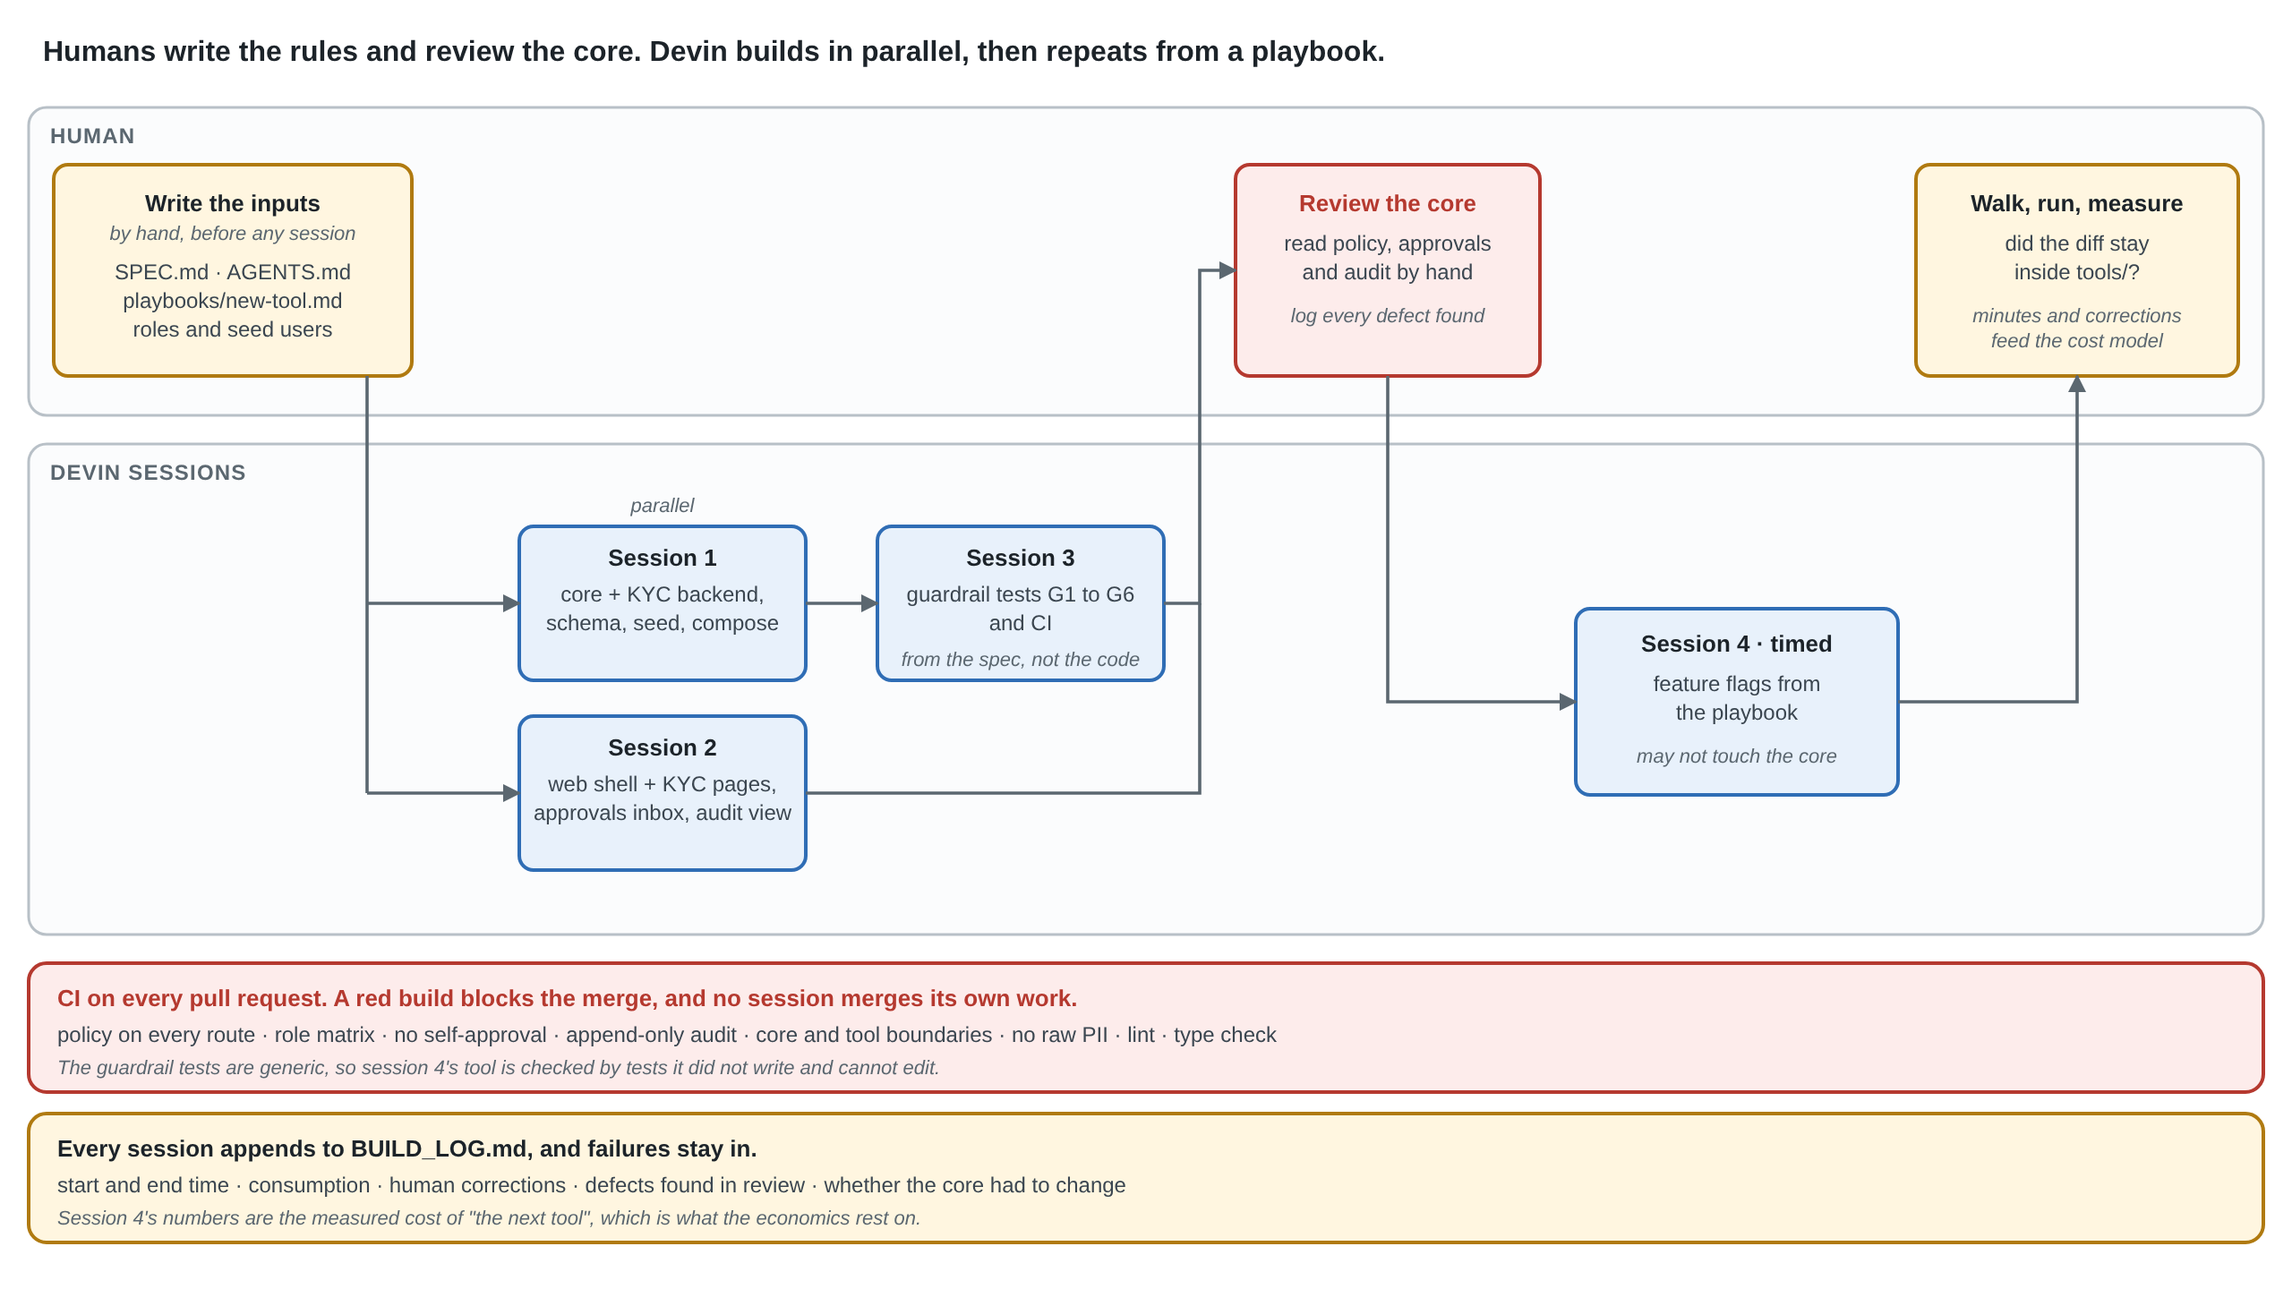
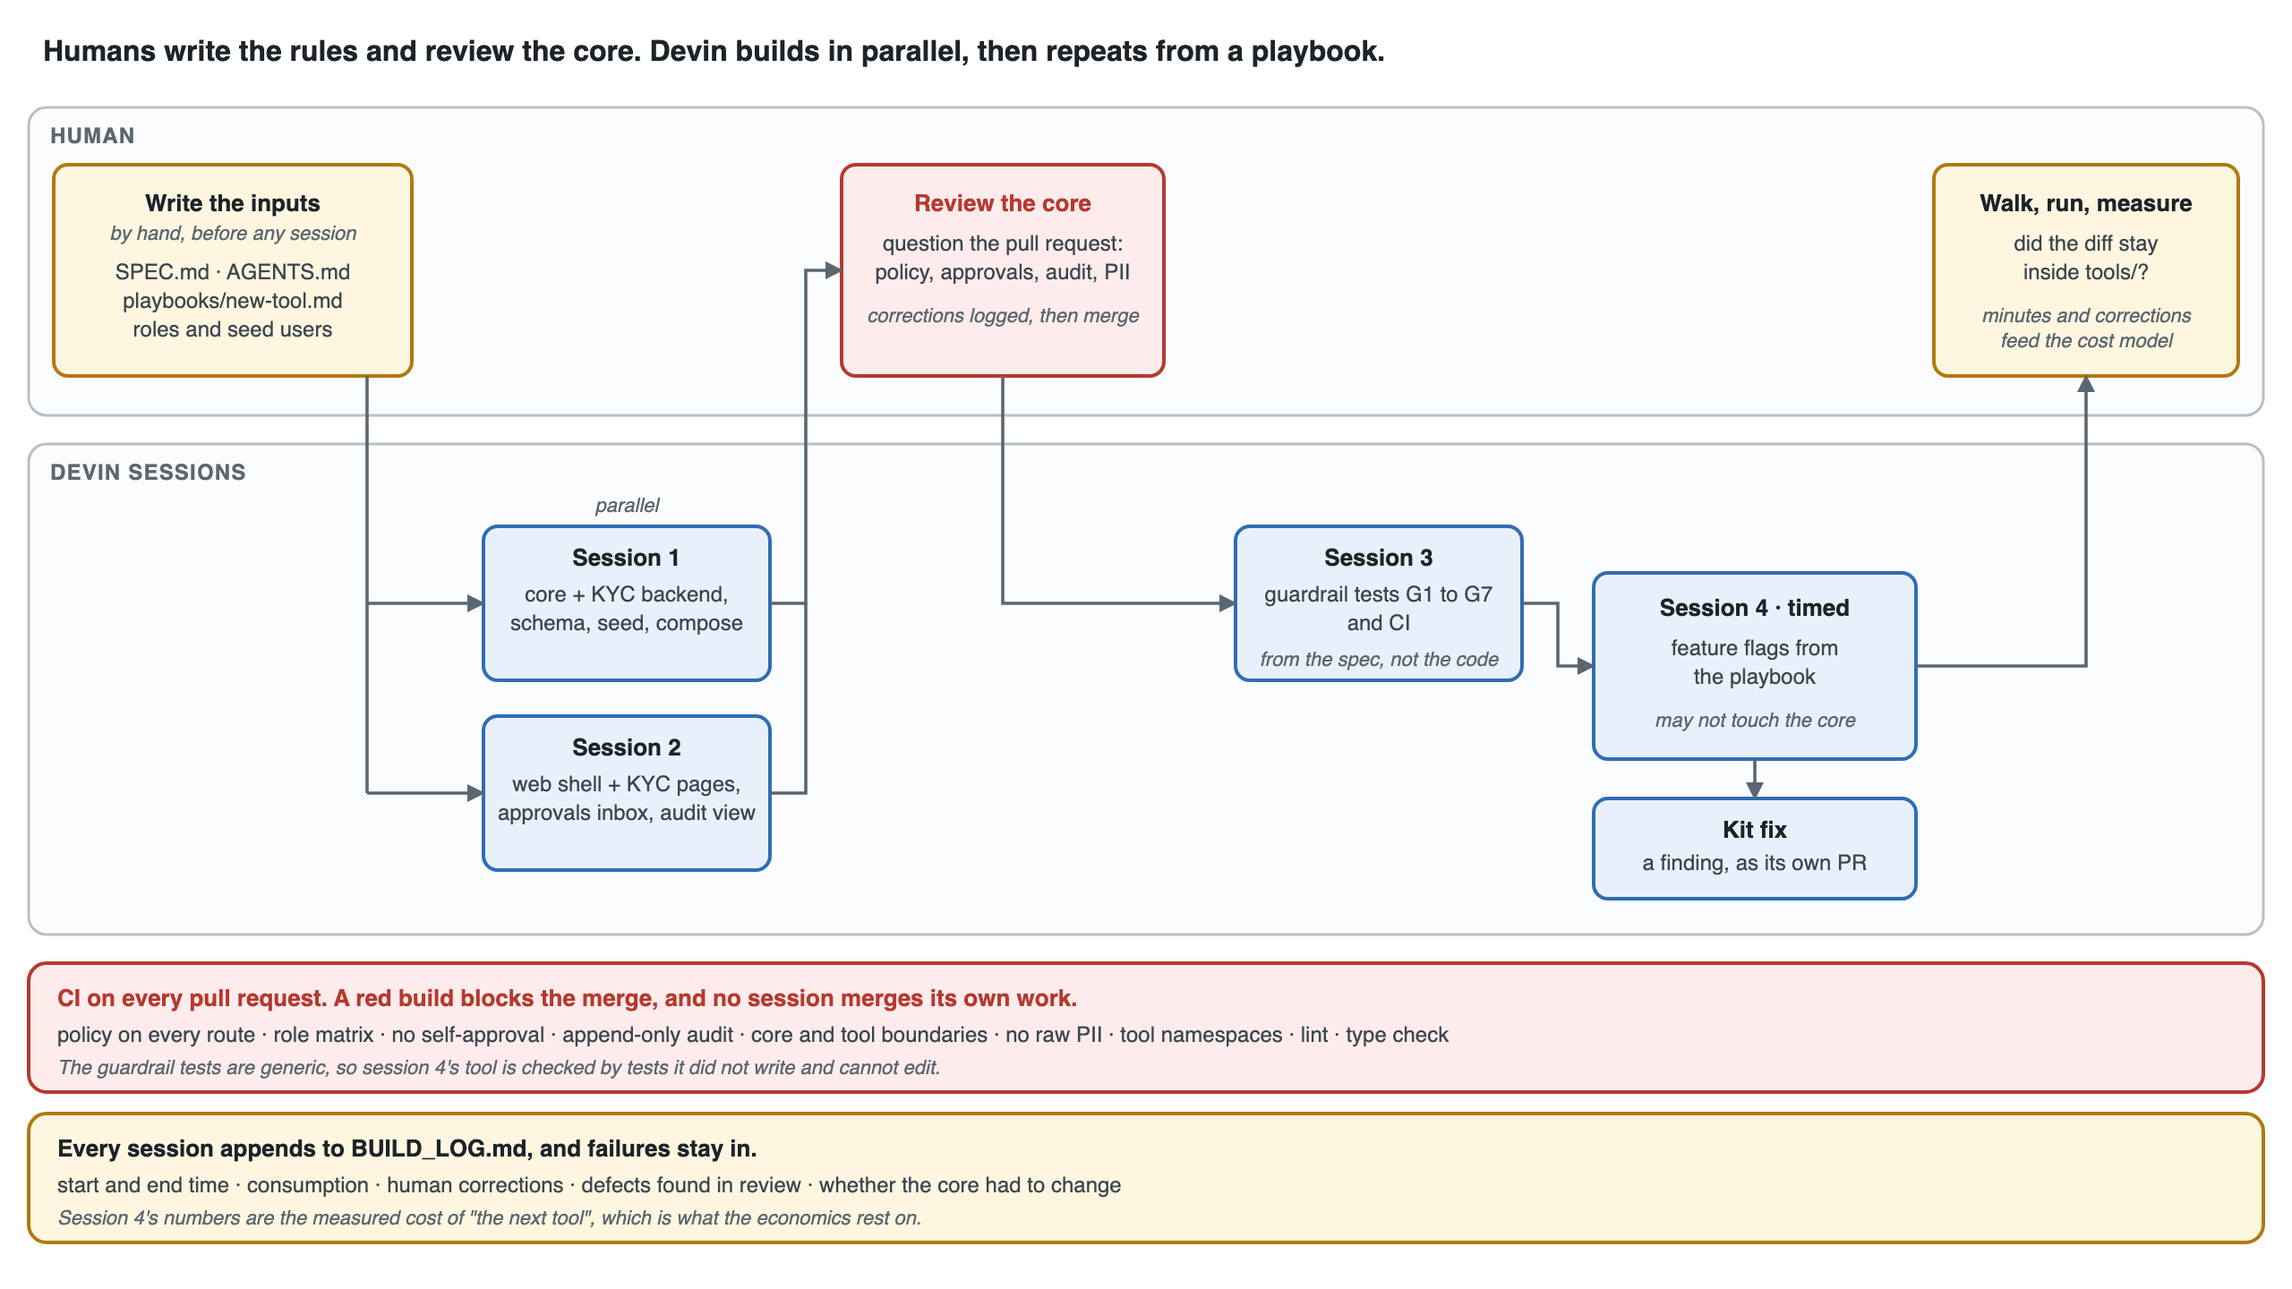
docs: bring README, diagrams and build log in line with what was built
README: say what the prototype is for, cover both tools, add the session
results, guardrails G1 to G7 and known gaps. Diagrams: seven guardrails,
namespaces, structural masking, and the review and kit-fix steps in the order
they happened. Build log: usage per session as shown in the Devin app.

diff --git a/README.md b/README.md
@@ -1,44 +1,62 @@
 # Internal Tools Kit
 
-A prototype kit for building governed internal tools. Access control, approvals, audit and PII
-masking live once in `backend/core/`; each tool under `backend/tools/<name>/` inherits them.
-The first tool is **KYC review**: an analyst proposes a decision on a flagged case, a different
-senior reviewer approves it, and an auditor sees the trail. See [SPEC.md](SPEC.md) for the full
-spec and [AGENTS.md](AGENTS.md) for contributor rules.
+A prototype for one question: can an engineering team use Devin to build its governed internal
+tools, instead of paying for a low-code platform such as Microsoft Power Apps?
+
+It does not rebuild Power Apps. There is no drag-and-drop editor, no connector catalogue and no
+hosting. It rebuilds the part a fintech cannot skip: access control, second-person approval, an
+audit trail and PII masking, written once in a shared core. Two tools sit on that core:
+
+- **KYC review.** An analyst proposes a decision on a flagged case, a different senior reviewer
+  approves it, and an auditor sees the trail with PII masked.
+- **Feature flags.** Engineers toggle flags in dev and staging. A prod toggle needs approval from
+  an engineering lead who is not the person asking. Every toggle is audited.
+
+The claim under test: with the controls in a core, Devin can add the next tool from a
+one-paragraph request without touching the core, and CI proves the controls still hold.
 
 Not production. Synthetic data only. Login is a stub (pick a user, no password).
+
+![System diagram](docs/diagrams/system.png)
 
 ## Run it
 
 Requires Docker with Compose.
 
 ```sh
-docker compose up -d     # postgres :5432, backend :8000, web placeholder :5173
-make seed                # drop + recreate the schema, load synthetic users and cases
+docker compose up -d     # postgres :5432, backend :8000, web :5173
+make seed                # drop + recreate the schema, load synthetic users, cases and flags
 ```
 
+- Web app: http://localhost:5173 (the first start runs `npm install`, so give it a minute)
 - API docs: http://localhost:8000/docs
 - Health: http://localhost:8000/api/health
-- The `web` service is a placeholder until `web/package.json` exists, then it runs the Vite dev
-  server on http://localhost:5173. Vite proxies `/api` to `API_TARGET` (set to
-  `http://backend:8000` in compose).
 
 `make seed` is safe to rerun; it resets the database to the same fixed data every time.
 
-## Log in as a seeded user
+## Try it
 
-Login sets a signed HttpOnly cookie. `GET /api/users` lists who you can be.
+Pick a user on the login page. Switch users from the header at any time.
 
-| User id | Name | Roles | Can |
-|---|---|---|---|
-| `ana` | Ana | analyst | read cases with PII, propose decisions |
-| `sam` | Sam | senior_reviewer | read cases with PII, approve or reject proposals |
-| `dana` | Dana | analyst, senior_reviewer | propose and approve, but never her own proposal |
-| `audrey` | Audrey | auditor | read cases with PII masked, read the audit trail |
-| `eli` | Eli | engineer | nothing yet (feature flags tool comes later) |
-| `lee` | Lee | engineer, eng_lead | nothing yet (feature flags tool comes later) |
+| User | Roles | Can |
+|---|---|---|
+| Ana | analyst | read KYC cases with PII, propose decisions |
+| Sam | senior_reviewer | read KYC cases with PII, approve or reject proposals |
+| Dana | analyst, senior_reviewer | propose and approve, but never her own proposal |
+| Audrey | auditor | read KYC cases with PII masked, view flags, read the audit trail |
+| Eli | engineer | view flags, toggle dev and staging, propose a prod toggle |
+| Lee | engineer, eng_lead | everything Eli can, plus approve prod toggles that are not his own |
 
-The KYC flow from SPEC section 2 with curl:
+Two flows to walk through:
+
+1. **KYC.** As Dana, open a case under KYC review and propose a decision. Open Approvals and try
+   to decide it: the server refuses with `self_approval`. Switch to Sam and approve it. Switch to
+   Audrey: the case shows `***` for PII, and Audit shows the propose, approve and apply rows.
+2. **Feature flags.** As Eli, toggle a dev flag directly. Open a prod flag and propose a change
+   with a reason. Switch to Lee and approve it in Approvals. Then propose one as Lee and try to
+   approve it: refused, for the same reason and by the same core code as Dana.
+
+The same KYC flow with curl:
 
 ```sh
 API=http://localhost:8000/api
@@ -59,6 +77,61 @@ curl -s -b /tmp/sam.jar -X POST $API/approvals/1/approve
 curl -s -b /tmp/audrey.jar "$API/audit?entity=kyc_case:2"
 ```
 
+## How it was built
+
+The inputs were written before the first session: [SPEC.md](SPEC.md), [AGENTS.md](AGENTS.md),
+[playbooks/new-tool.md](playbooks/new-tool.md) and the prompts in
+[docs/DEVIN_SESSIONS.md](docs/DEVIN_SESSIONS.md). Devin wrote all the application code and tests
+in four sessions and six pull requests. A human reviewed and merged each one.
+
+![Devin workflow](docs/diagrams/devin-workflow.png)
+
+| Session | Pull requests | Time | Devin usage | Human corrections |
+|---|---|---|---|---|
+| 1 Core and KYC backend | [#1](https://github.com/LavonASC20/internal-tools-kit/pull/1) | ~59 min, including two review rounds | $0.16 | 9 |
+| 2 Web shell and KYC pages | [#2](https://github.com/LavonASC20/internal-tools-kit/pull/2), [#3](https://github.com/LavonASC20/internal-tools-kit/pull/3) | ~13 min to the first PR | $1.35 | 1 |
+| 3 Guardrail tests and CI | [#4](https://github.com/LavonASC20/internal-tools-kit/pull/4) | ~13 min | $3.93 | 0 |
+| 4 Feature flags, from the playbook | [#6](https://github.com/LavonASC20/internal-tools-kit/pull/6), kit fix [#5](https://github.com/LavonASC20/internal-tools-kit/pull/5) | ~5 min to a built tool, ~14 min to a reviewable PR | $4.30 | 1 |
+
+Sessions 1 and 2 ran in parallel. Usage is the on-demand figure shown in each session's panel in
+the Devin app. [BUILD_LOG.md](BUILD_LOG.md) has the full record for every session, including what
+went wrong.
+
+### What the second tool showed
+
+- The feature flags diff is entirely inside `backend/tools/feature_flags/` and
+  `web/src/tools/feature_flags/`. Nothing in `backend/core/`, `backend/tests/` or the web shell
+  changed.
+- The seven guardrail tests picked up the new routes and roles at runtime and passed unedited.
+- Adding the tool did break two existing web tests, because they named specific users and grants.
+  Devin stopped and reported it, and the fix went in as a separate kit change (#5).
+
+### What it does not show
+
+- Feature flags was named in the spec from the start, so the core was designed knowing this tool
+  was coming. A tool nobody planned for is the real test, and it has not been run.
+- One tool is one data point, and feature flags is close to plain CRUD.
+- Review was the expensive part. Session 1 needed nine corrections before its core was safe to
+  merge, including that any tool could grant any permission.
+
+## Guardrails
+
+These run in CI on every pull request. They discover routes, roles, tools and PII fields at
+runtime, so a new tool is covered without anyone editing them.
+
+| ID | Test |
+|---|---|
+| G1 | Every route declares a policy action, except health and the auth routes. |
+| G2 | For every route and every role, the response is 403 exactly when the role lacks the action. |
+| G3 | A proposer cannot decide their own request, through the API or by direct insert. |
+| G4 | Audit rows cannot be updated or deleted. A change that fails midway leaves no state change and no audit row. |
+| G5 | Core imports no tool. No tool imports another tool. |
+| G6 | A caller without the PII action never receives raw PII values. |
+| G7 | No tool grants or registers an action outside its own namespace. |
+
+Each one was shown to fail when its rule is broken: session 3 made 17 temporary breakages and
+pasted the failing output into [#4](https://github.com/LavonASC20/internal-tools-kit/pull/4).
+
 ## API
 
 | Route | Action |
@@ -69,12 +142,49 @@ curl -s -b /tmp/audrey.jar "$API/audit?entity=kyc_case:2"
 | `GET /api/audit?tool=&entity=&actor=&limit=` | `audit.read` |
 | `GET /api/kyc/cases?status=`, `GET /api/kyc/cases/{id}` | `kyc.case.read` |
 | `POST /api/kyc/cases/{id}/propose {decision: clear or reject, rationale}` | `kyc.decision.propose` |
+| `GET /api/flags?environment=`, `GET /api/flags/{id}` | `flags.flag.read` |
+| `POST /api/flags/{id}/toggle {enabled}` (dev and staging only) | `flags.flag.toggle` |
+| `POST /api/flags/{id}/propose {enabled, reason}` (prod only) | `flags.prod.propose` |
 
 `approvals.read` and `approvals.decide` are derived: a role holds them if it holds the propose or
 approve action of any registered approval kind. `GET /api/me` returns the caller's actions.
 
 Errors are `{"error": {"code", "message"}}`: 401 `unauthenticated`, 403 `forbidden` or
 `self_approval`, 404 `not_found`, 409 `invalid_state`, 422 `validation_error`.
+
+## Rules core enforces at startup
+
+- **Action namespaces.** A tool's `permissions.py` sets `NAMESPACE` (KYC uses `kyc`, feature flags
+  uses `flags`) and may only grant actions under it. Claiming another tool's namespace, or
+  granting `audit.*` or `approvals.*` (owned by core), fails when the app starts. Each namespace's
+  grants are registered once, and `create_app` freezes policy, so nothing can add or change a
+  grant afterwards.
+- **Approval kinds.** `approvals.register` accepts a kind only if its `action` and
+  `propose_action` are declared actions in the registering tool's own namespace. Each action has
+  one kind. Approval payloads must not contain PII field names: they are stored and shown unmasked.
+- **PII masking.** Mark fields with `pii_field()` on a `PiiModel` and set `pii_action`. Core masks
+  those fields whenever the model is serialized, unless the caller holds `pii_action`. Tools never
+  call masking, and a `PiiModel` subclass may not define its own `model_serializer`. Every route
+  that declares an action must return a pydantic model (or a list/optional of one), and a response
+  model that uses `pii_field()` without being a `PiiModel` is refused when the route is created.
+
+## Known gaps
+
+Out of scope by design: real single sign-on (`core/auth` is a stub behind an interface), hosting,
+connectors to systems of record, notifications and a visual editor.
+
+Found during the build and left open:
+
+- The namespace rules stop an honest mistake, not hostile code running in the same process.
+- A field nobody marks with `pii_field()` is not PII to the kit. Only comments in `schema.sql`
+  say otherwise.
+- A wrong `pii_action` reveals PII to everyone who holds that action. Nothing checks it.
+- PII inside a free-form `dict` field, a `computed_field`, or a hand-built `Response` is not masked.
+- The PII checks on audit detail and approval payloads match key names only.
+- A route with an action and no response body is refused at startup. It would need an empty model.
+- `core/audit.py` names the `auditor` role, so a team that calls that role something else edits core.
+- In mock mode, a browser that saved mock state before a tool was added gets errors from the new
+  tool until its storage is cleared.
 
 ## Develop
 
@@ -86,31 +196,22 @@ make test                # pytest against a separate itk_test database (TEST_DAT
 make lint                # ruff check, ruff format --check, mypy
 ```
 
+The web app has its own commands in [web/README.md](web/README.md), including a mock mode that
+needs no backend.
+
 Layout (SPEC section 4):
 
 ```
 backend/main.py          discovers backend/tools/* and mounts each tool's router under /api
 backend/core/            auth, policy, approvals, audit, masking, db (+ errors, api routes)
+backend/core/tests/      unit tests of core (import no tool)
 backend/tools/<name>/    permissions.py, routes.py, service.py, schemas.py, schema.sql, seed.py, tests/
-backend/tests/           generic guardrail tests (G1 to G6)
+backend/tests/           generic guardrail tests (G1 to G7)
 db/schema.sql            core tables: users, approval_requests, audit_events
 db/seed.py               applies core + tool schema.sql, seeds users, calls each tool's seed.py
+web/src/shell/           login picker, nav, approvals inbox, audit view
+web/src/tools/<name>/    pages for one tool, discovered by glob
 ```
 
-To add a tool, follow [playbooks/new-tool.md](playbooks/new-tool.md). No file outside the tool's
-folder needs to change: `main.py` and `db/seed.py` find it by scanning `backend/tools/`.
-
-Rules core enforces at startup:
-
-- **Action namespaces.** A tool's `permissions.py` sets `NAMESPACE` (KYC uses `kyc`) and may only
-  grant actions under it. Claiming another tool's namespace, or granting `audit.*` or
-  `approvals.*` (owned by core), fails when the app starts. Each namespace's grants are registered
-  once, and `create_app` freezes policy, so nothing can add or change a grant afterwards.
-- **Approval kinds.** `approvals.register` accepts a kind only if its `action` and
-  `propose_action` are declared actions in the registering tool's own namespace. Each action has
-  one kind. Approval payloads must not contain PII field names: they are stored and shown unmasked.
-- **PII masking.** Mark fields with `pii_field()` on a `PiiModel` and set `pii_action`. Core masks
-  those fields whenever the model is serialized, unless the caller holds `pii_action`. Tools never
-  call masking, and a `PiiModel` subclass may not define its own `model_serializer`. Every route
-  that declares an action must return a pydantic model (or a list/optional of one), and a response
-  model that uses `pii_field()` without being a `PiiModel` is refused when the route is created.
+To add a tool, follow [playbooks/new-tool.md](playbooks/new-tool.md). `main.py`, `db/seed.py` and
+the web shell find it by scanning the tools folders.

diff --git a/BUILD_LOG.md b/BUILD_LOG.md
@@ -4,10 +4,15 @@ One entry per Devin session. Failures stay in.
 
 | Session | Start | End | Minutes | Consumption | Human corrections | Defects found in review | Guardrails green on first PR |
 |---|---|---|---|---|---|---|---|
-| 1 Core and KYC backend | 2026-11-16 00:37 EST | 2026-11-16 01:36 EST | ~59 | not measured in-session | 9 (3 in round 1, 6 in round 2) | 1 (Devin Review) | n/a (G1 to G6 are session 3) |
-| 2 Web shell and KYC pages | 2026-11-16 00:37 EST | 2026-11-16 00:50 EST | ~13 | | 1 | 3 (Devin Review) | n/a (G1-G6 not written yet; web typecheck, build and vitest green) |
-| 3 Guardrail tests and CI | 2026-11-16 01:56 EST | 2026-11-16 02:09 EST | ~13 | not measured in-session | 0 | | yes (G1 to G7 green against main on first run; no findings) |
-| 4 Feature flags (playbook) | 2026-11-16 02:15 EST | 2026-11-16 02:20 EST | ~5 (timed build, to the stop); kit fix ~2 on its own line below | not measured in-session | 1 | 2 (Devin Review on #6: 1 fixed, 1 escalated as a kit finding) | yes for backend (G1 to G7 green on first run with the tool); web vitest red until kit PR #5 |
+| 1 Core and KYC backend | 2026-11-16 00:37 EST | 2026-11-16 01:36 EST | ~59 | $0.16, size XS, 12 user messages | 9 (3 in round 1, 6 in round 2) | 1 (Devin Review) | n/a (G1 to G6 are session 3) |
+| 2 Web shell and KYC pages | 2026-11-16 00:37 EST | 2026-11-16 00:50 EST (first PR); follow-up fixes and the post-merge check ran to about 01:54 EST | ~13 to the first PR | $1.35, size XS, 9 user messages | 1 | 3 (Devin Review) | n/a (G1-G6 not written yet; web typecheck, build and vitest green) |
+| 3 Guardrail tests and CI | 2026-11-16 01:56 EST | 2026-11-16 02:09 EST | ~13 | $3.93, size XS, 2 user messages | 0 | | yes (G1 to G7 green against main on first run; no findings) |
+| 4 Feature flags (playbook) | 2026-11-16 02:15 EST | 2026-11-16 02:20 EST | ~5 (timed build, to the stop); kit fix ~2 on its own line below | $4.30, size S, 3 user messages | 1 | 2 (Devin Review on #6: 1 fixed, 1 escalated as a kit finding) | yes for backend (G1 to G7 green on first run with the tool); web vitest red until kit PR #5 |
+
+Consumption was added by hand after the sessions ended. It is the on-demand usage, session size
+and user message count shown in each session's panel in the Devin app, read between 02:40 and
+02:50 EST on 2026-11-16. The four sessions total $9.74. Devin's size guide puts XS at $4 or less
+and S above $4.
 
 ## Notes per session
 
